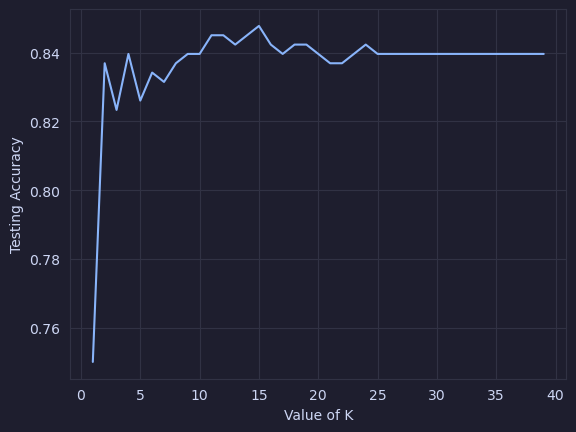
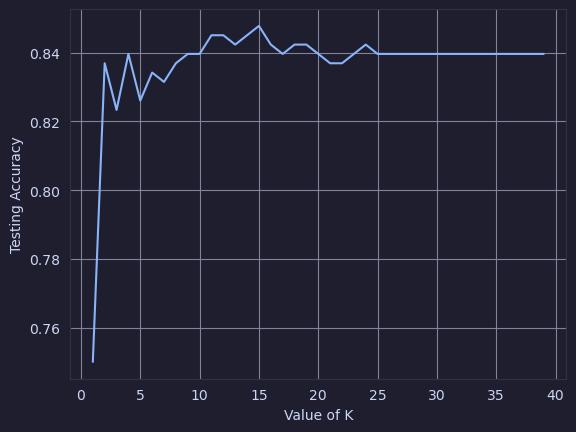
Auto gen distance metric graphs

diff --git a/scripts/attrition.py b/scripts/attrition.py
@@ -14,8 +14,12 @@ import matplotlib.pyplot as plt
 import numpy as np
 import seaborn as sns
 from common import DATA_FILE, OUTPUT, TRANSPARENT
+from mplcatppuccin.palette import load_color
 
-plt.grid(c='white')
+color = load_color("mocha", "overlay1")
+
+
+plt.grid(c=color)
 
 # Reading in data
 data = pd.read_csv(DATA_FILE)
@@ -76,21 +80,24 @@ clf = Pipeline(
 
 clf.fit(X_train, y_train)
 print("model score: %.3f" % clf.score(X_test, y_test))
-k_range = range(1, 40)
-scores = []
-for k in k_range:
-    knn = KNeighborsClassifier(n_neighbors=k,metric='minkowski')
-    knn.fit(X_train,np.ravel(y_train,order='C'))
-    y_pred = knn.predict(X_test)
-    # appending the accuracy scores in the dictionary named scores.
-    scores.append(metrics.accuracy_score(y_test, y_pred))
-print(scores)
-plt.plot(k_range, scores)
-plt.xlabel('Value of K')
-plt.ylabel('Testing Accuracy')
-plt.savefig(
-    OUTPUT.joinpath("minkowski.png"), bbox_inches="tight", transparent=TRANSPARENT
-)
+for dMetric in ["minkowski", "euclidean", "manhattan"]:
+    k_range = range(1, 40)
+    scores = []
+    for k in k_range:
+        knn = KNeighborsClassifier(n_neighbors=k,metric=dMetric)
+        knn.fit(X_train,np.ravel(y_train,order='C'))
+        y_pred = knn.predict(X_test)
+        # appending the accuracy scores in the dictionary named scores.
+        scores.append(metrics.accuracy_score(y_test, y_pred))
+    print(scores)
+    plt.plot(k_range, scores)
+    plt.xlabel('Value of K')
+    plt.ylabel('Testing Accuracy')
+    plt.savefig(
+        OUTPUT.joinpath(f"{dMetric}.png"), bbox_inches="tight", transparent=TRANSPARENT
+    )
+    plt.clf()
+
 test_scores = []
 train_scores = []
 for i in range(1,40):
@@ -112,8 +119,9 @@ plt.savefig(
     OUTPUT.joinpath("test.png"), bbox_inches="tight", transparent=TRANSPARENT
 )
 error = []
+
 for i in range(1, 40):
-    knn = KNeighborsClassifier(n_neighbors=i, metric='manhattan')
+    knn = KNeighborsClassifier(n_neighbors=i, metric="manhattan")
     knn.fit(X_train, y_train)
     pred_i = knn.predict(X_test)
     error.append(np.mean(pred_i != y_test))
